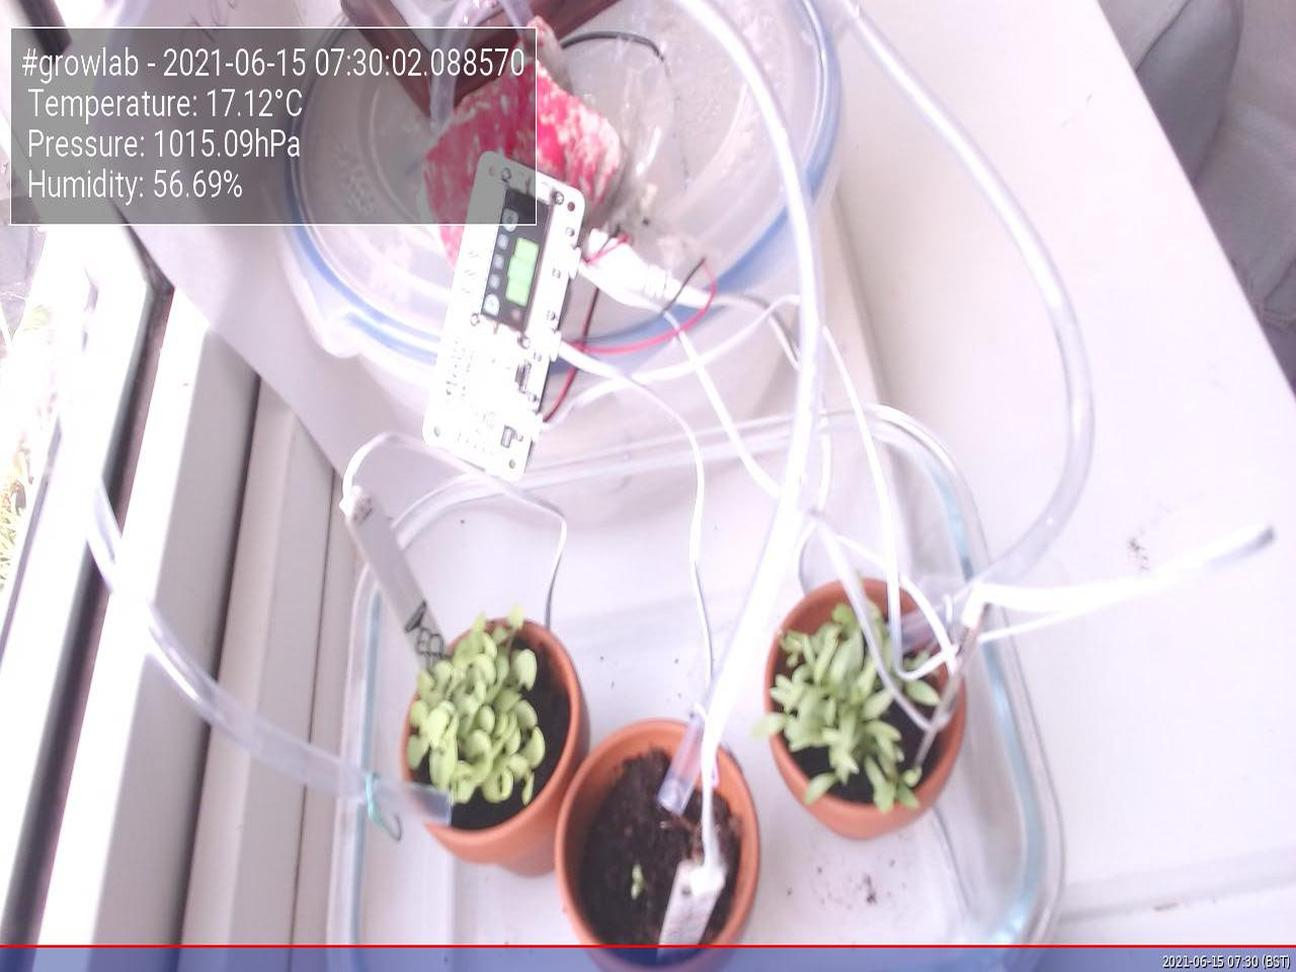
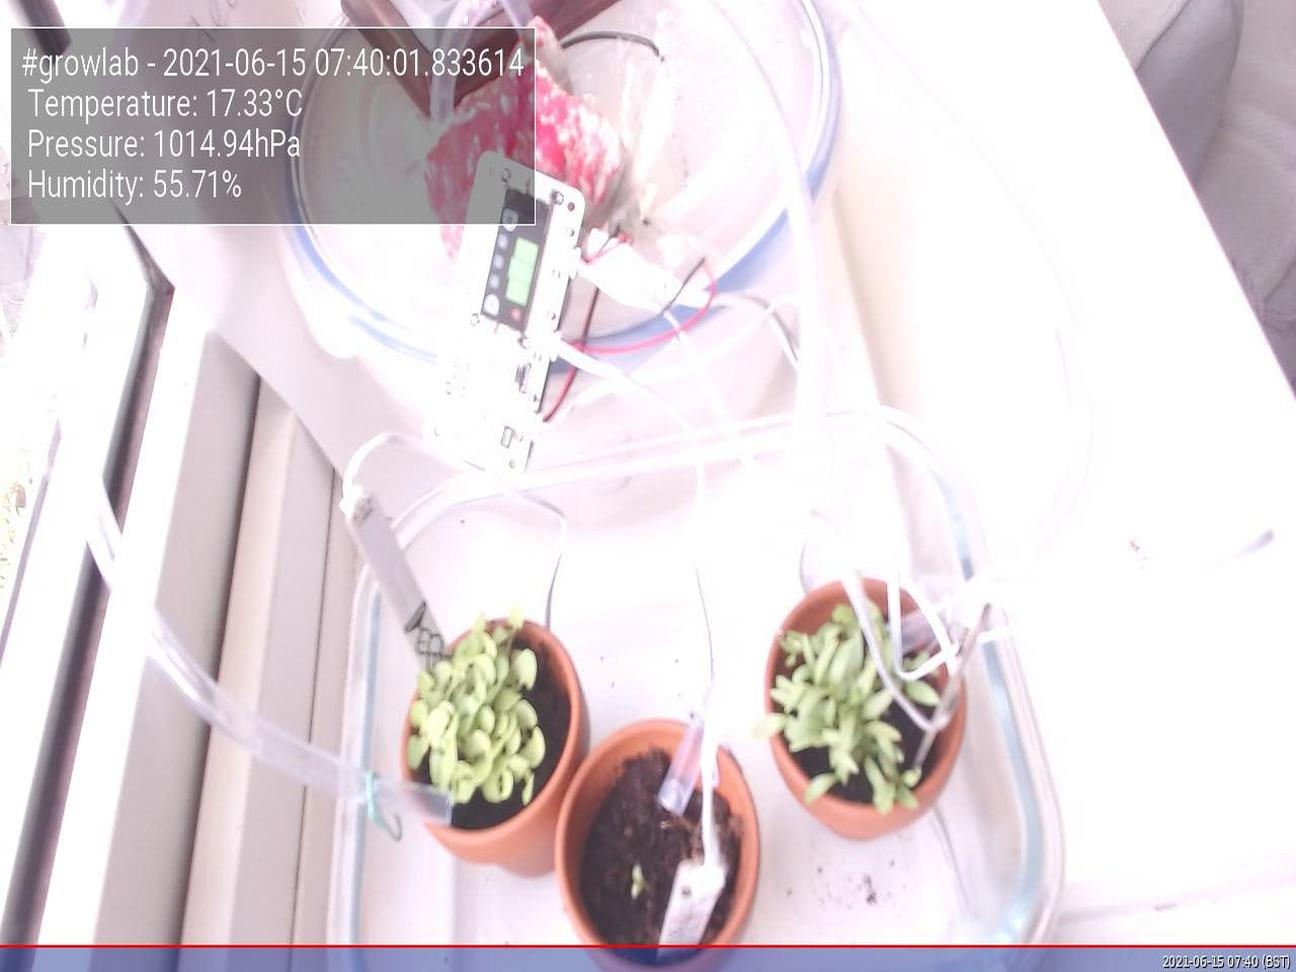
Update images at Tue 15 Jun 07:40:05 BST 2021

diff --git a/app/docs/index.html b/app/docs/index.html
@@ -47,19 +47,19 @@
                         <tbody>
                             <tr>
                                 <td>Time</td>
-                                <td>2021-06-15 07:30:02.088570</td>
+                                <td>2021-06-15 07:40:01.833614</td>
                             </tr>
                             <tr>
                                 <td>Temperature</td>
-                                <td>17.12°C</td>
+                                <td>17.33°C</td>
                             </tr>
                             <tr>
                                 <td>Humidity</td>
-                                <td>56.69%</td>
+                                <td>55.71%</td>
                             </tr>
                             <tr>
                                 <td>Pressure</td>
-                                <td>1015.09hPa</td>
+                                <td>1014.94hPa</td>
                             </tr>
                         </tbody>
                     </table>
@@ -67,7 +67,7 @@
 
                 <h5>Latest image</h5>
                 <div style="width: 85%;">
-                            <img class="figure-img img-fluid rounded" src="./preview.jpg?uid=1623738605.8314805">
+                            <img class="figure-img img-fluid rounded" src="./preview.jpg?uid=1623739205.5932314">
                 </div>
             </div>
         </div>
